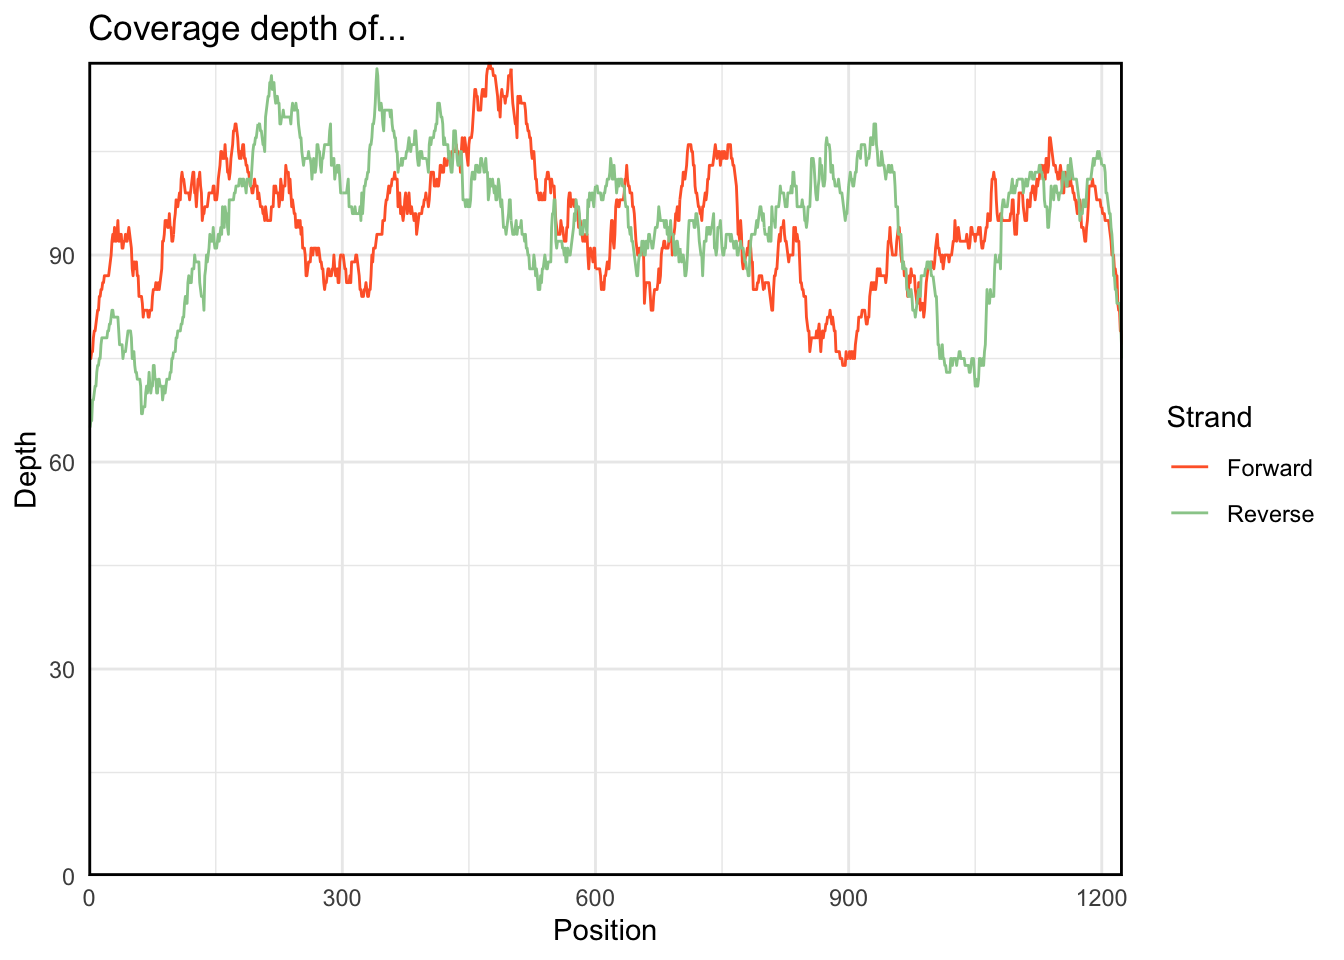
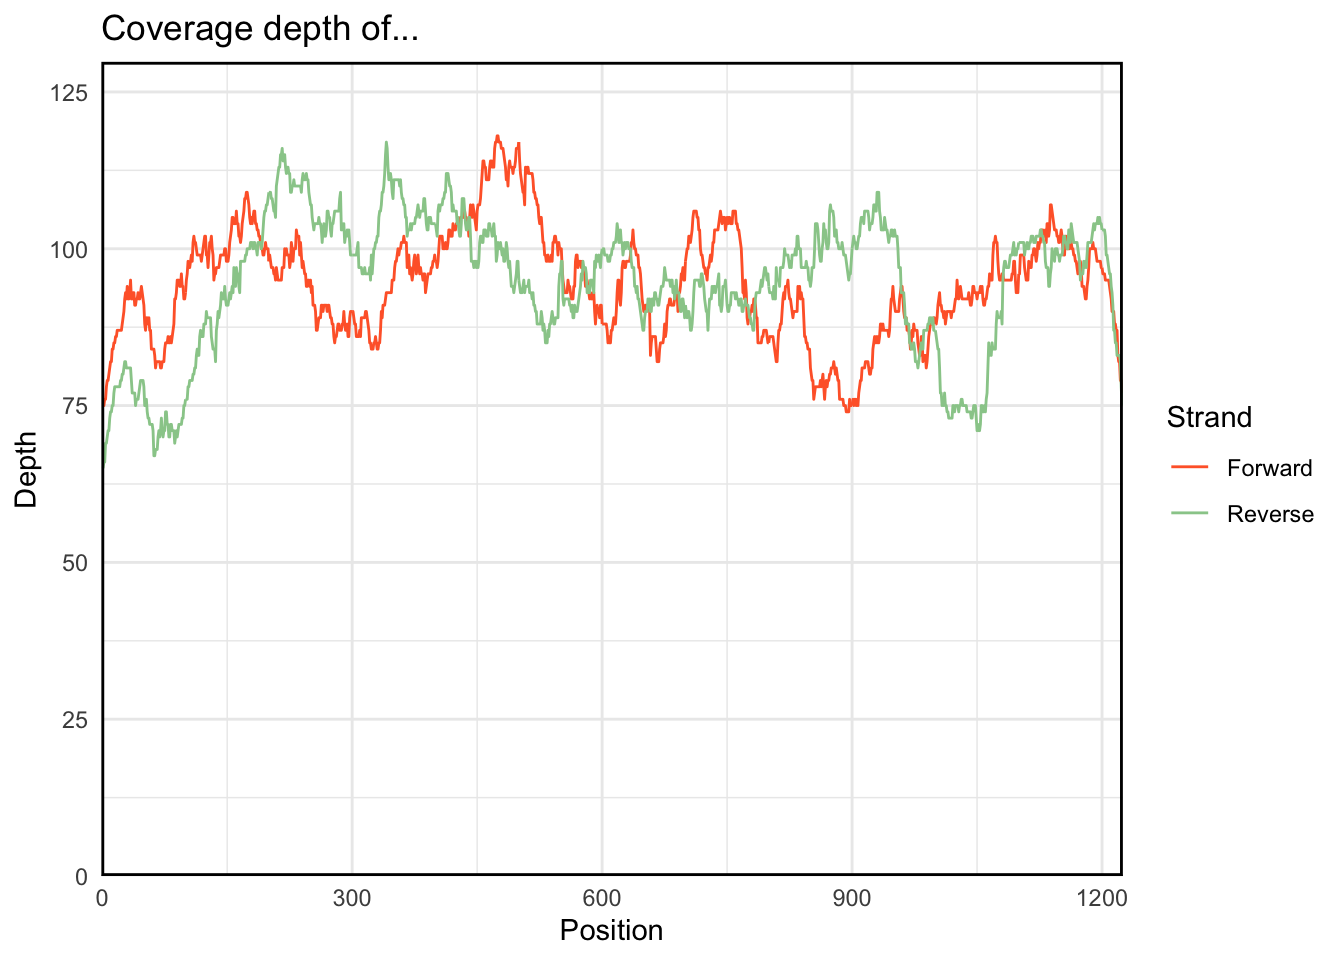
Change ymax value on plot.coverage

diff --git a/docs/ggcoverage.html b/docs/ggcoverage.html
@@ -374,7 +374,7 @@ head(regions_hit)</code></pre>
     geom_line() +
     geom_hline(yintercept = 0) + 
     scale_x_continuous(expand = c(0, x.min), limits = c(0, x.max)) +
-    scale_y_continuous(expand = c(0, 0), limits = c(0, y.max)) +
+    scale_y_continuous(expand = c(0, 0), limits = c(0, y.max * 1.1)) +
     labs(x = &quot;Position&quot;, 
          y = &quot;Depth&quot;,
          title = &quot;Coverage depth of...&quot;,
